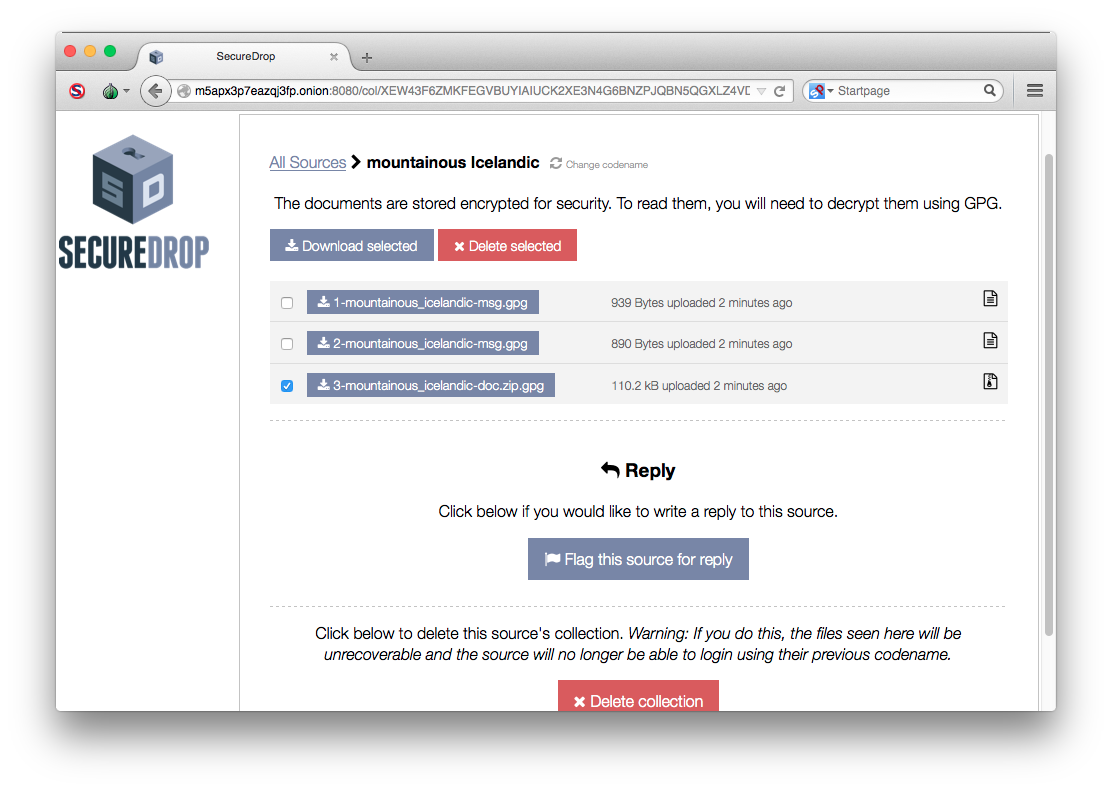
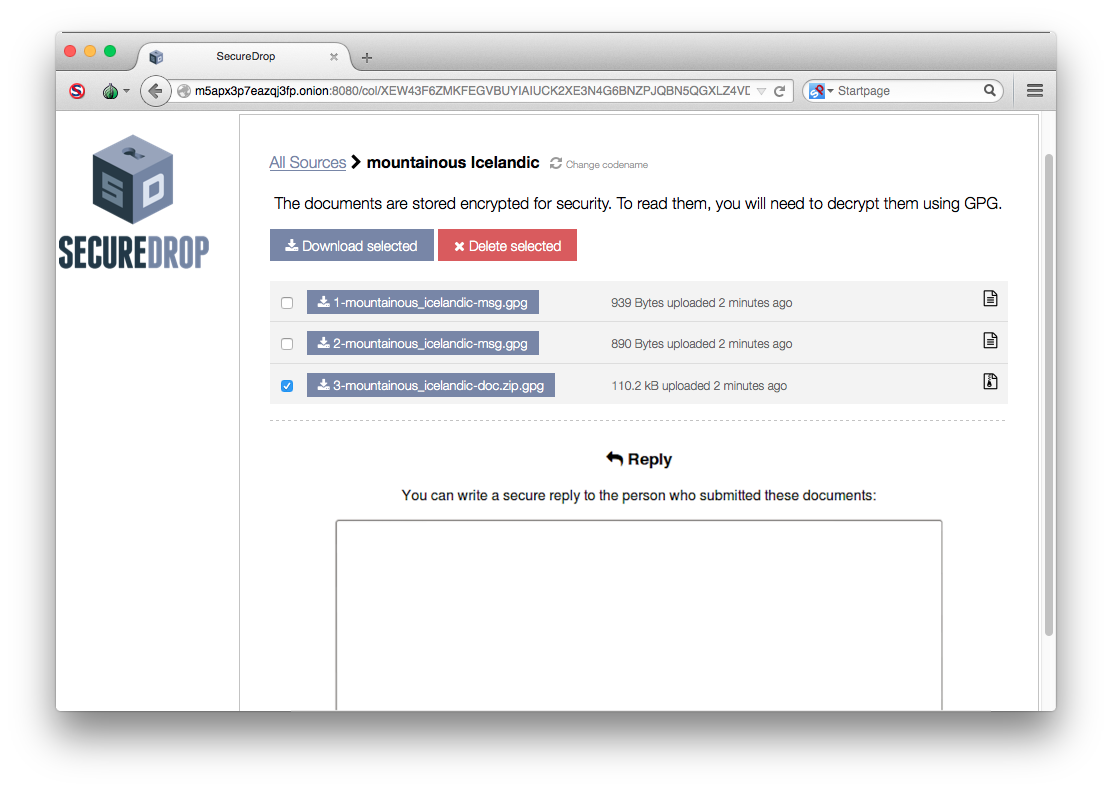
Update the journalist user manual with new screenshots and instructions, resolves #719.

Changed region(s): [[0.3669, 0.5765, 0.795, 0.7585], [0.2752, 0.7889, 0.8561, 0.9102]]

diff --git a/journalist_user_manual.md b/journalist_user_manual.md
@@ -32,7 +32,7 @@ If any sources have uploaded documents or sent you message, they will be listed 
 
 You will only be able to view the documents the source has sent you on the `Secure Viewing Station`. After clicking on an individual source you will see the page below with the messages that source has sent you. Click on a document or message name to save it.
 
-**TODO:** update screenshot.
+![Load external content](/docs/images/manual/document4.png)
 
 In order to protect you from malware, the browser will display a notice every time you try to download a file that can't be opened in browser itself. Go ahead and click `Launch application` anyway, and save the document to the designated USB stick you will use to transfer the documents from your Tails `Journalist Workstation` to the `Secure Viewing Station`. This will be known as your `Transfer Device`.
 
@@ -64,9 +64,8 @@ If the default application doesn't work, you can right-click on the document and
 
 ### Interact With Sources
 
-Click on the codename to see the page specifically for that source. You will see all of the messages that they have written and documents that they have uploaded. Documents and messages are encrypted to the application's GPG public key. In order to read the messages or look at the documents you will need to transfer them to the `Secure Viewing Station`. But first, if you'd like to reply to the source, click **TODO:** update instructions.
-
-**TODO:** update screenshot.
+Click on the codename to see the page specifically for that source. You will see all of the messages that they have written and documents that they have uploaded. Documents and messages are encrypted to the application's GPG public key. In order to read the messages or look at the documents you will need to transfer them to the `Secure Viewing Station`. 
+But first, if you'd like to reply to the source, write your message in the text field and click `Submit`.
 
 ![Sent reply](/docs/images/manual/document2.png)
 
